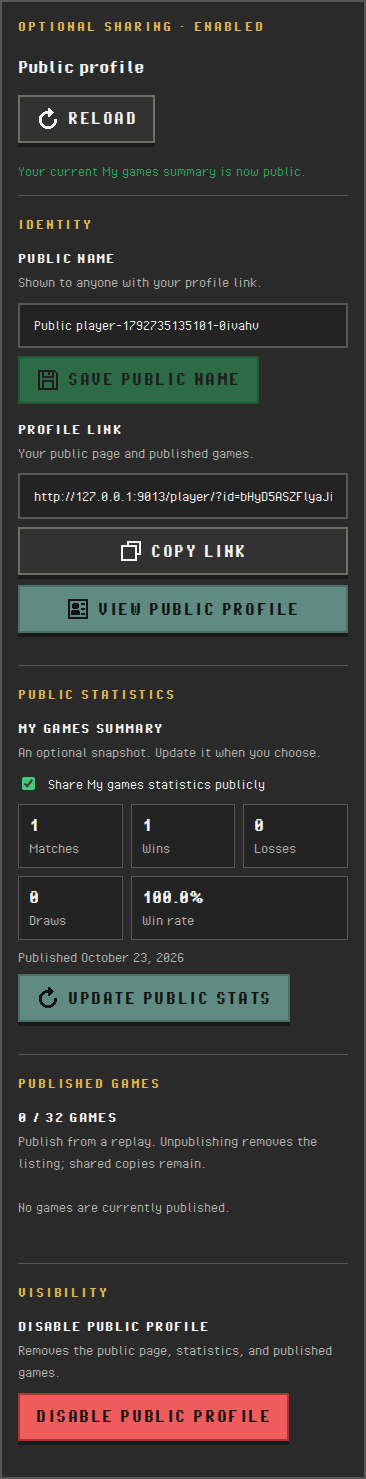
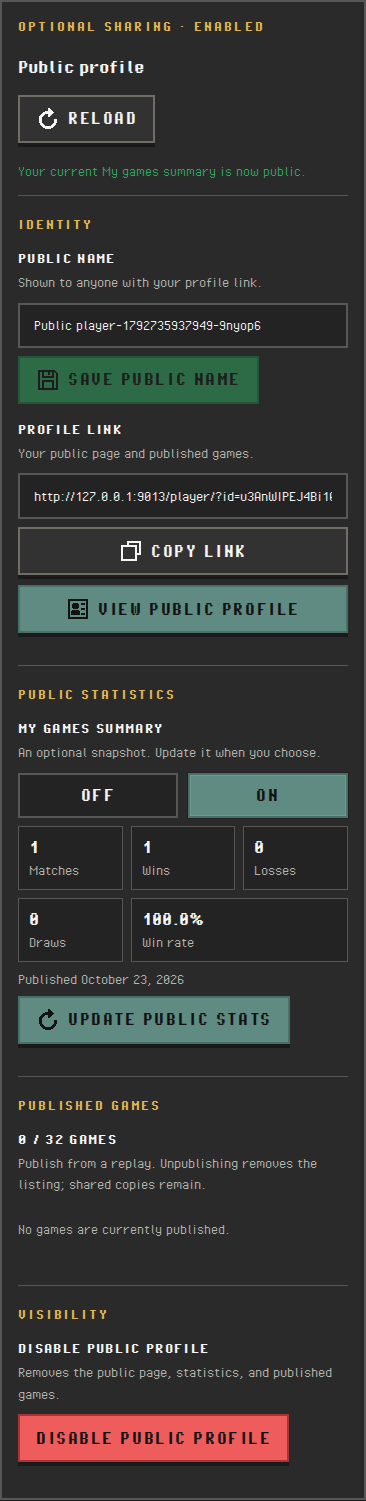
Use settings-style Off and On buttons for public statistics

diff --git a/gomoku-web/src/routes/PublicSharing.test.tsx b/gomoku-web/src/routes/PublicSharing.test.tsx
@@ -1,5 +1,5 @@
 import { useState } from "react";
-import { act, cleanup, fireEvent, render, screen, waitFor } from "@testing-library/react";
+import { act, cleanup, fireEvent, render, screen, waitFor, within } from "@testing-library/react";
 import { afterEach, beforeEach, describe, expect, it, vi } from "vitest";
 import { MemoryRouter, Route, Routes, useNavigate } from "react-router-dom";
 
@@ -390,9 +390,10 @@ describe("public profile routes and controls", () => {
         <PublicProfileManager stats={ownerStats} statsReady={false} statsBlocker="Wait for private history." />
       </MemoryRouter>,
     );
-    const toggle = await screen.findByRole("checkbox", { name: "Share My games statistics publicly" });
-    expect(toggle).not.toBeChecked();
-    expect(toggle).toBeDisabled();
+    const visibility = within(await screen.findByRole("group", { name: "Share My games statistics publicly" }));
+    expect(visibility.getByRole("button", { name: "Off" })).toHaveAttribute("aria-pressed", "true");
+    expect(visibility.getByRole("button", { name: "On" })).toBeDisabled();
+    fireEvent.click(visibility.getByRole("button", { name: "Off" }));
     expect(sharing.setPublicProfileStats).not.toHaveBeenCalled();
 
     rendered.rerender(
@@ -400,10 +401,13 @@ describe("public profile routes and controls", () => {
         <PublicProfileManager stats={ownerStats} statsReady statsBlocker="Wait for private history." />
       </MemoryRouter>,
     );
-    fireEvent.click(screen.getByRole("checkbox", { name: "Share My games statistics publicly" }));
+    fireEvent.click(visibility.getByRole("button", { name: "On" }));
     await waitFor(() => expect(sharing.setPublicProfileStats).toHaveBeenCalledWith(signedInUser.uid, ownerStats, 4));
     expect(await screen.findByText("Published October 21, 2026")).toBeInTheDocument();
     expect(screen.getByText("100.0%")).toBeInTheDocument();
+    expect(visibility.getByRole("button", { name: "On" })).toHaveAttribute("aria-pressed", "true");
+    fireEvent.click(visibility.getByRole("button", { name: "On" }));
+    expect(sharing.setPublicProfileStats).toHaveBeenCalledTimes(1);
 
     fireEvent.click(screen.getByRole("button", { name: "Update public stats" }));
     await waitFor(() => expect(sharing.setPublicProfileStats).toHaveBeenNthCalledWith(2, signedInUser.uid, ownerStats, 5));
@@ -412,7 +416,7 @@ describe("public profile routes and controls", () => {
         <PublicProfileManager stats={ownerStats} statsReady={false} statsBlocker="Wait for private history." />
       </MemoryRouter>,
     );
-    fireEvent.click(screen.getByRole("checkbox", { name: "Share My games statistics publicly" }));
+    fireEvent.click(visibility.getByRole("button", { name: "Off" }));
     await waitFor(() => expect(sharing.setPublicProfileStats).toHaveBeenNthCalledWith(3, signedInUser.uid, null, 6));
     expect(await screen.findByRole("status")).toHaveTextContent("Public statistics removed");
   });
@@ -427,14 +431,14 @@ describe("public profile routes and controls", () => {
     let resolveSave!: (value: PublicProfileSnapshot) => void;
     sharing.setPublicProfileStats.mockImplementation(() => new Promise<PublicProfileSnapshot>((resolve) => { resolveSave = resolve; }));
     renderManager();
-    fireEvent.click(await screen.findByRole("checkbox", { name: "Share My games statistics publicly" }));
+    fireEvent.click(within(await screen.findByRole("group", { name: "Share My games statistics publicly" })).getByRole("button", { name: "On" }));
     await waitFor(() => expect(sharing.setPublicProfileStats).toHaveBeenCalledTimes(1));
     await act(async () => { setSignedIn("second-owner"); });
     await screen.findByDisplayValue("second-owner");
     await act(async () => {
       resolveSave(publicProfile({ sharedStats: { ...ownerStats, updatedAt: "2026-10-22T00:00:00.000Z" } }));
     });
-    expect(screen.getByRole("checkbox", { name: "Share My games statistics publicly" })).not.toBeChecked();
+    expect(within(screen.getByRole("group", { name: "Share My games statistics publicly" })).getByRole("button", { name: "Off" })).toHaveAttribute("aria-pressed", "true");
     expect(screen.queryByText("Your current My games summary is now public.")).not.toBeInTheDocument();
     expect(screen.getByRole("textbox", { name: "Public name" })).toHaveValue("second-owner");
   });
@@ -452,7 +456,7 @@ describe("public profile routes and controls", () => {
         <PublicProfileManager stats={zeroStats} statsReady statsBlocker="History is still loading." />
       </MemoryRouter>,
     );
-    fireEvent.click(await screen.findByRole("checkbox", { name: "Share My games statistics publicly" }));
+    fireEvent.click(within(await screen.findByRole("group", { name: "Share My games statistics publicly" })).getByRole("button", { name: "On" }));
     await waitFor(() => expect(sharing.setPublicProfileStats).toHaveBeenCalledWith(signedInUser.uid, zeroStats, 4));
     expect(await screen.findByText("—")).toBeInTheDocument();
   });

diff --git a/gomoku-web/cloudtests/sharing.spec.ts b/gomoku-web/cloudtests/sharing.spec.ts
@@ -290,7 +290,7 @@ test("C11: public opt-in, visitor replay, unpublish, disable, re-enable, and cop
   await page.getByRole("button", { name: "Enable public profile", exact: true }).click();
   await expect(page.getByRole("status").filter({ hasText: "Public profile enabled with an empty catalog" })).toBeVisible();
 
-  const publicStatsToggle = page.getByRole("checkbox", { name: "Share My games statistics publicly", exact: true });
+  const publicStatsToggle = page.getByRole("group", { name: "Share My games statistics publicly", exact: true }).getByRole("button", { name: "On", exact: true });
   await expect(publicStatsToggle).toBeEnabled();
   await publicStatsToggle.click();
   await expect.poll(async () => (await readFirestoreDocument(`public_profiles/${uid}`))?.shared_stats).not.toBeNull();
@@ -301,7 +301,7 @@ test("C11: public opt-in, visitor replay, unpublish, disable, re-enable, and cop
   await page.getByRole("button", { name: "Update public stats", exact: true }).click();
   await expect.poll(async () => (await readFirestoreDocument(`public_profiles/${uid}`))?.revision as number)
     .toBeGreaterThan(firstStatsRevision);
-  await publicStatsToggle.click();
+  await page.getByRole("group", { name: "Share My games statistics publicly", exact: true }).getByRole("button", { name: "Off", exact: true }).click();
   await expect.poll(async () => (await readFirestoreDocument(`public_profiles/${uid}`))?.shared_stats).toBeNull();
   await publicStatsToggle.click();
   await expect.poll(async () => (await readFirestoreDocument(`public_profiles/${uid}`))?.shared_stats).not.toBeNull();
@@ -531,7 +531,7 @@ test("C14: private reset keeps public sharing, while Delete Cloud clears markers
   await page.getByRole("button", { name: "Enable public profile", exact: true }).click();
   await expect(page.getByRole("status").filter({ hasText: "Public profile enabled with an empty catalog" })).toBeVisible();
 
-  const publicStatsToggle = page.getByRole("checkbox", { name: "Share My games statistics publicly", exact: true });
+  const publicStatsToggle = page.getByRole("group", { name: "Share My games statistics publicly", exact: true }).getByRole("button", { name: "On", exact: true });
   await expect(publicStatsToggle).toBeEnabled();
   await publicStatsToggle.click();
   await expect.poll(async () => (await readFirestoreDocument(`public_profiles/${uid}`))?.shared_stats).not.toBeNull();
@@ -637,7 +637,7 @@ test("C15: maximum Unicode public fields remain editable and reflow for owners a
   await expect(page.getByRole("textbox", { name: "Public name", exact: true })).toHaveValue(publicName);
   await page.getByRole("button", { name: "Save public name", exact: true }).click();
   await expect(page.getByText("Public name saved.", { exact: true })).toBeVisible();
-  const statsToggle = page.getByRole("checkbox", { name: "Share My games statistics publicly", exact: true });
+  const statsToggle = page.getByRole("group", { name: "Share My games statistics publicly", exact: true }).getByRole("button", { name: "On", exact: true });
   await expect(statsToggle).toBeEnabled();
   await statsToggle.click();
   await expect(page.getByRole("button", { name: "Update public stats", exact: true })).toBeEnabled();

diff --git a/gomoku-web/src/routes/PublicProfileManager.tsx b/gomoku-web/src/routes/PublicProfileManager.tsx
@@ -389,12 +389,14 @@ export function PublicProfileManager({
                       <p className={styles.settingHint}>An optional snapshot. Update it when you choose.</p>
                     </div>
                     <div className={styles.settingControls}>
-                      <label className={styles.confirmRow}>
-                        <input type="checkbox" checked={sharedStats !== null}
-                          disabled={pendingAction !== null || (sharedStats === null && !statsReady)}
-                          onChange={(event) => void setStatsSharing(event.target.checked)} />
-                        <span>Share My games statistics publicly</span>
-                      </label>
+                      <div className={styles.statsVisibility} role="group" aria-label="Share My games statistics publicly">
+                        <button className={sharedStats === null ? "uiSegment uiSegmentActive" : "uiSegment"}
+                          type="button" aria-pressed={sharedStats === null} disabled={pendingAction !== null}
+                          onClick={() => { if (sharedStats !== null) void setStatsSharing(false); }}>Off</button>
+                        <button className={sharedStats !== null ? "uiSegment uiSegmentActive" : "uiSegment"}
+                          type="button" aria-pressed={sharedStats !== null} disabled={pendingAction !== null || !statsReady}
+                          onClick={() => { if (sharedStats === null) void setStatsSharing(true); }}>On</button>
+                      </div>
                       {!statsReady && <p className={styles.settingHint}>{statsBlocker}</p>}
                       {sharedStats && <>
                         <div className={`${styles.publicStatsGrid} ${styles.managerStatsGrid}`} role="group" aria-label="Published statistics snapshot">

diff --git a/gomoku-web/src/routes/ProfileRoute.test.tsx b/gomoku-web/src/routes/ProfileRoute.test.tsx
@@ -378,7 +378,7 @@ describe("ProfileRoute cloud state", () => {
     });
 
     renderProfileRoute("/profile?tab=public");
-    const statsToggle = await screen.findByRole("checkbox", { name: "Share My games statistics publicly" });
+    const statsToggle = await screen.findByRole("button", { name: "On" });
     expect(statsToggle).toBeDisabled();
     expect(publicSharingMocks.setPublicProfileStats).not.toHaveBeenCalled();
 

diff --git a/gomoku-web/src/routes/SharingPanels.module.css b/gomoku-web/src/routes/SharingPanels.module.css
@@ -305,6 +305,12 @@
   font-size: var(--type-meta);
 }
 
+.statsVisibility {
+  display: grid;
+  grid-template-columns: repeat(2, minmax(0, 1fr));
+  gap: 10px;
+}
+
 .managerStatsGrid {
   grid-template-columns: repeat(3, minmax(0, 1fr));
 }

diff --git a/docs/working/v0_6_1_evidence/README.md b/docs/working/v0_6_1_evidence/README.md
@@ -109,6 +109,19 @@ Raw final cloud artifacts are retained under ignored
 `gomoku-web/test-results/v061-ui-final`. The current
 [preview receipt](preview.json) identifies the served runtime commit.
 
+## Statistics control follow-up
+
+Public statistics use the same Off/On segmented buttons as General Settings.
+The selected state follows the saved snapshot. On publishes once; selecting the
+active button does no cloud work. Off removes the snapshot even while private
+history is unavailable. Refresh stays a separate Update public stats action.
+
+The affected component suites passed 42/42, full app/scripts/tools type checks
+passed, and the emulator preview build passed. C11/C14/C15 passed 9/9 across
+Chromium, Firefox and WebKit; the eighteen [current audits](accessibility.json)
+have zero violations and incomplete checks. Owner desktop/mobile captures were
+refreshed; raw artifacts are in ignored `gomoku-web/test-results/v061-stats-buttons`.
+
 ## Contract review
 
 | Requirement | Acceptance evidence |

diff --git a/docs/working/v0_6_1_public_profile.md b/docs/working/v0_6_1_public_profile.md
@@ -104,6 +104,8 @@ whole replay sidebar, matching Share replay's entry animation, paused playback,
 Back/Escape dismissal and focus/scroll restoration. Its compact publication
 preview shows the destination profile, title, opening move and both players.
 Public-copy and unverified-result notices remain concise and visible.
+Statistics sharing uses General Settings' Off/On segmented buttons. Selecting
+the active state does no cloud work; refreshing remains a separate action.
 
 ## Review and execution
 
